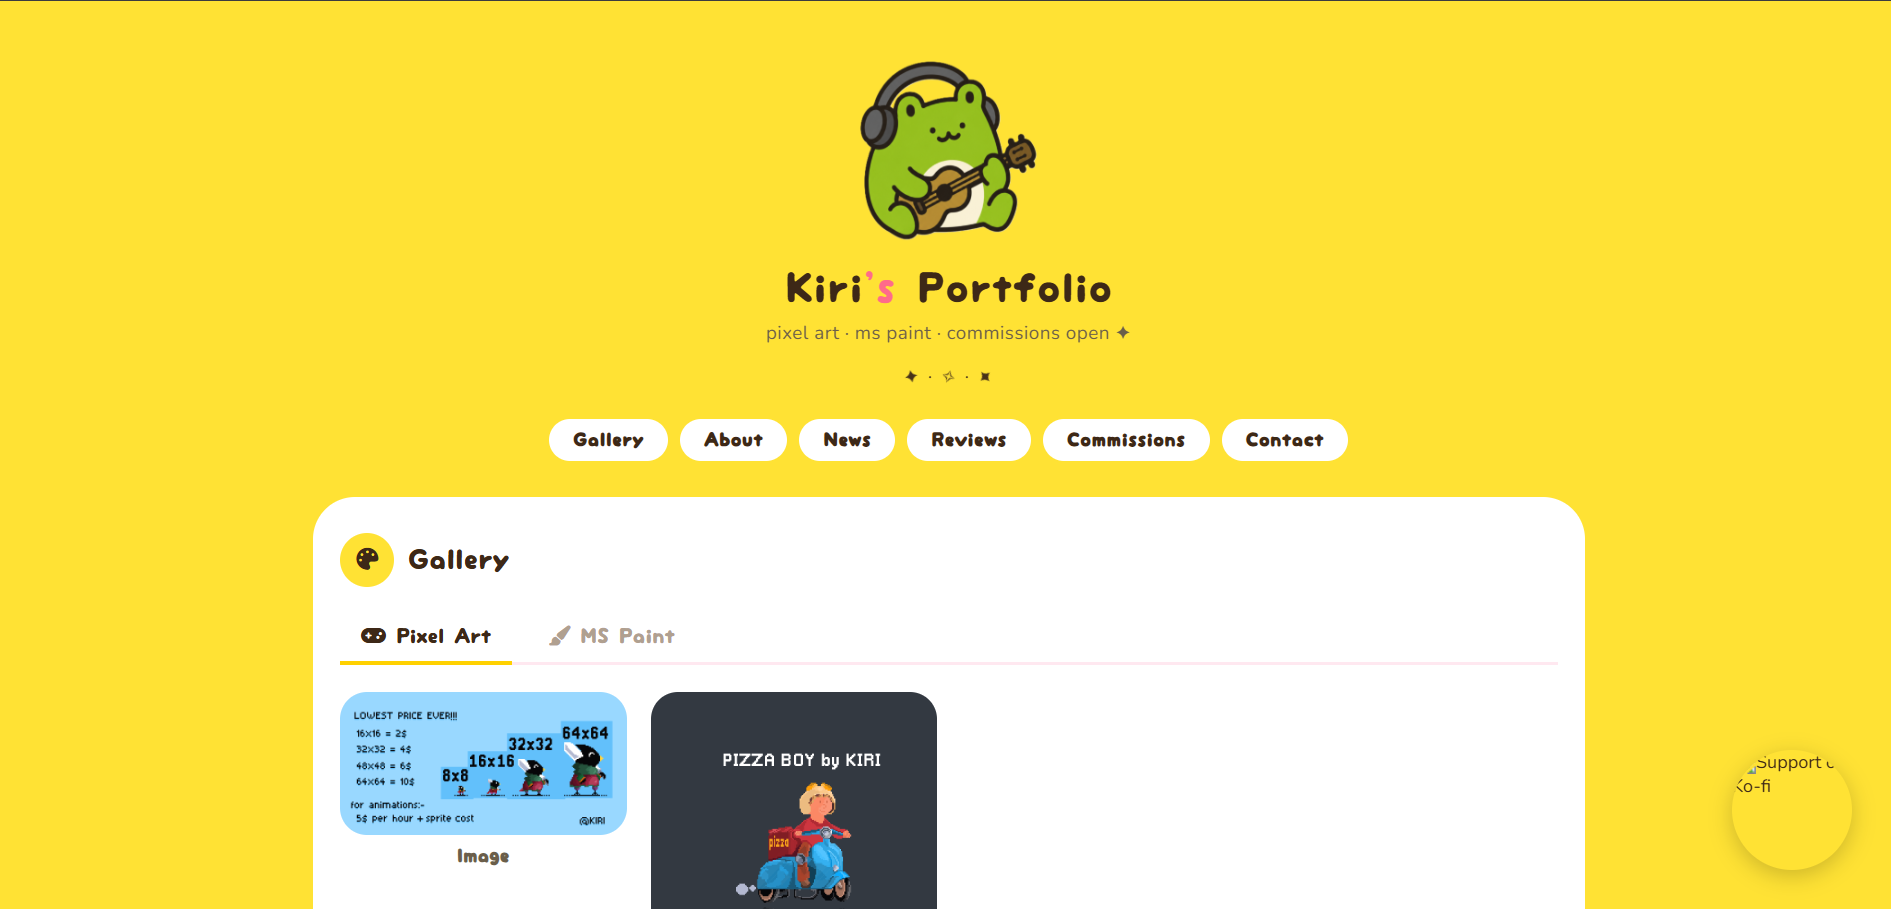
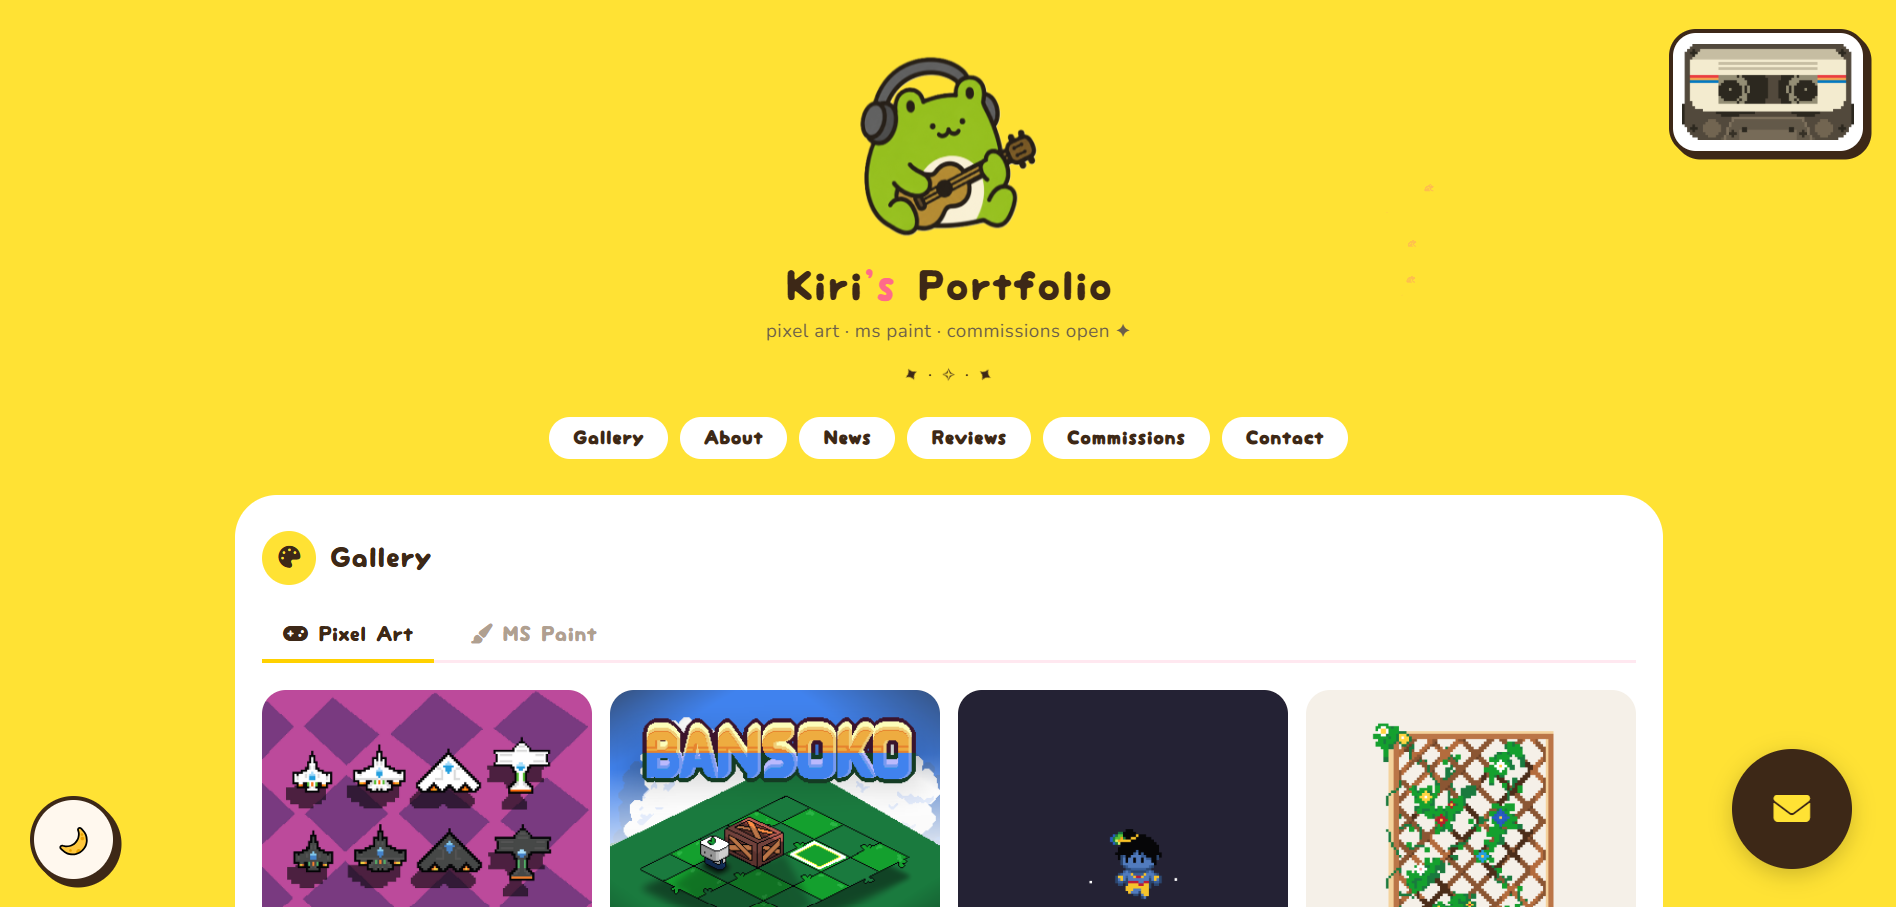
fixed text layout

diff --git a/style.css b/style.css
@@ -608,6 +608,19 @@
  }
 
  @media(max-width:480px) {
+    .about-row {
+         flex-direction: column;
+         align-items: center;
+     }
+
+     .about-text {
+         width: 100%;
+     }
+
+     .avi {
+         margin-bottom: 12px;
+     }
+
      .pill-nav {
          gap: 6px;
          padding: 0 8px 24px;
@@ -705,6 +718,19 @@
  }
 
  @media(max-width:480px) {
+    .about-row {
+         flex-direction: column;
+         align-items: center;
+     }
+
+     .about-text {
+         width: 100%;
+     }
+
+     .avi {
+         margin-bottom: 12px;
+     }
+
      .tabs-wrapper {
          gap: 6px;
          margin-bottom: 12px;
@@ -723,6 +749,19 @@
  }
 
  @media(max-width:480px) {
+    .about-row {
+         flex-direction: column;
+         align-items: center;
+     }
+
+     .about-text {
+         width: 100%;
+     }
+
+     .avi {
+         margin-bottom: 12px;
+     }
+
      .masonry-grid {
          columns: 2;
          column-gap: 8px;
@@ -730,6 +769,19 @@
  }
 
  @media(min-width:481px) and (max-width:768px) {
+    .about-row {
+         flex-direction: column;
+         align-items: center;
+     }
+
+     .about-text {
+         width: 100%;
+     }
+
+     .avi {
+         margin-bottom: 12px;
+     }
+
      .masonry-grid {
          columns: 3;
      }
@@ -937,6 +989,19 @@
  }
 
  @media(max-width:700px) {
+    .about-row {
+         flex-direction: column;
+         align-items: center;
+     }
+
+     .about-text {
+         width: 100%;
+     }
+
+     .avi {
+         margin-bottom: 12px;
+     }
+
      .modal-arrow.prev {
          left: 4px;
      }